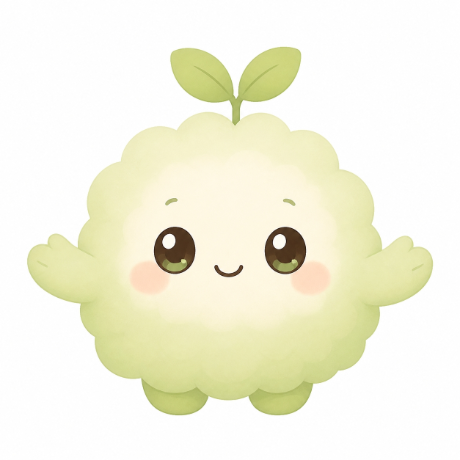
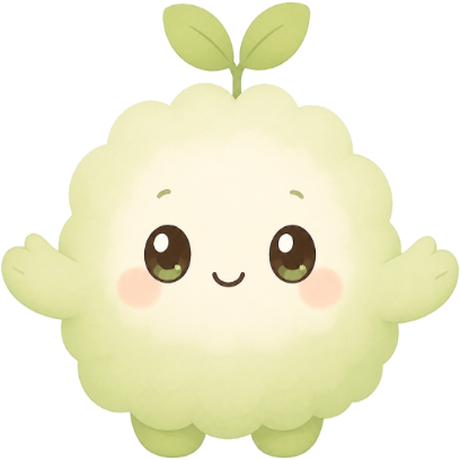
もこの表情切替の不具合を修正（白背景・二重表示・怖い目）
- moko.png の白背景を透過に（切替時に白い四角が出ていた）
- 表情と同じ絵柄の通常顔 moko-base.png を追加し、ヒーローの基本画像に
- 表情画像の位置・大きさを通常顔に揃えて切替時の二重表示を解消
- 表情は上に重ねてクロスフェード（一瞬消える問題を解消）
- 白目つきの目パーツを廃止し、元の絵と同じ目を重ねてハイライトだけ動かす方式に
- 白目の多い「びっくり」顔は使用をやめ、不明な質問は「考え中」に
- 画像URLにバージョンを付けてキャッシュで古い画像が出ないように
- スマホ幅では顔にかぶる吹き出しカードを非表示

diff --git a/index.html b/index.html
@@ -386,19 +386,24 @@ footer { background: var(--ink); color: rgba(255,255,255,.72); padding: 62px 0 3
 .hero-visual.with-moko { display: flex; flex-direction: column; align-items: center; gap: 4px; position: relative; z-index: 1; }
 .moko-stage { position: relative; width: min(80%, 340px); aspect-ratio: 1; }
 .moko { position: absolute; inset: 0; animation: mokoFloat 4.5s ease-in-out infinite; will-change: transform; }
-.moko img.moko-body { width: 100%; height: 100%; object-fit: contain; display: block; filter: drop-shadow(0 16px 26px rgba(60,110,90,.22)); }
+.moko img { position: absolute; inset: 0; width: 100%; height: 100%; object-fit: contain; display: block; filter: drop-shadow(0 16px 26px rgba(60,110,90,.22)); transition: opacity .22s ease; }
+.moko img.moko-face { opacity: 0; pointer-events: none; }
+.moko.show-face img.moko-face { opacity: 1; }
+.moko.show-face img.moko-body { opacity: 0; }
 @keyframes mokoFloat { 0%,100% { transform: translateY(0); } 50% { transform: translateY(-10px); } }
-.moko-eye { position: absolute; width: 9.4%; aspect-ratio: 1; border-radius: 50%;
-  background: radial-gradient(circle at 50% 38%, #fffefa, #efe7d6); box-shadow: inset 0 -1px 2px rgba(90,70,40,.18); overflow: hidden; }
-.moko-eye.l { left: 38.3%; top: 53.6%; transform: translate(-50%, -50%); }
-.moko-eye.r { left: 62%;  top: 53.6%; transform: translate(-50%, -50%); }
-.moko-pupil { position: absolute; left: 50%; top: 50%; width: 56%; aspect-ratio: 1; border-radius: 50%;
-  background: radial-gradient(circle at 50% 45%, #4a3d2b, #2c2418);
-  transform: translate(calc(-50% + var(--px, 0px)), calc(-50% + var(--py, 0px))); transition: transform .09s ease-out; }
-.moko-pupil::after { content: ''; position: absolute; left: 24%; top: 18%; width: 30%; aspect-ratio: 1; border-radius: 50%; background: rgba(255,255,255,.92); }
-.moko-eyelid { position: absolute; left: -4%; top: -4%; width: 108%; height: 108%; border-radius: 50%; background: #ece3cf; transform: scaleY(0); transform-origin: 50% 8%; transition: transform .09s ease; }
+/* 元の絵と同じ目（濃い茶色の楕円＋白ハイライト＋下の黄緑）を重ね、中身だけがそっと動く */
+.moko-eye { position: absolute; width: 10.9%; height: 13.2%; border-radius: 50%; overflow: hidden;
+  background: radial-gradient(ellipse at 50% 45%, #583c23 0%, #553921 55%, #462b11 100%);
+  box-shadow: inset 0 0 0 1.5px #432d11; transform: translate(-50%, -50%); transition: opacity .15s ease; }
+.moko-eye.l { left: 37.3%; top: 55.3%; }
+.moko-eye.r { left: 65.5%; top: 55.3%; }
+.moko-pupil { position: absolute; inset: 0;
+  background: radial-gradient(ellipse 60% 36% at 50% 82%, #a3ad64 0%, #9aa45d 50%, rgba(154,164,93,0) 80%);
+  transform: translate(var(--px, 0px), var(--py, 0px)); transition: transform .12s ease-out; }
+.moko-pupil::before { content: ''; position: absolute; left: 22%; top: 14%; width: 30%; height: 28%; border-radius: 50%; background: #fdf7e3; }
+.moko-pupil::after { content: ''; position: absolute; left: 64%; top: 64%; width: 12%; height: 10%; border-radius: 50%; background: #d9e291; }
+.moko-eyelid { position: absolute; inset: -6%; border-radius: 50%; background: #fbf4e0; transform: scaleY(0); transform-origin: 50% 0; transition: transform .09s ease; }
 .moko.blink .moko-eyelid { transform: scaleY(1); }
-.moko-body { transition: opacity .18s ease; }
 .moko.show-face .moko-eye { opacity: 0; }
 .moko.react { animation: mokoBounce .5s ease; }
 @keyframes mokoBounce { 0%,100%{transform:translateY(0) scale(1);} 30%{transform:translateY(-14px) scale(1.05,.96);} 60%{transform:translateY(0) scale(.97,1.03);} }
@@ -427,7 +432,8 @@ footer { background: var(--ink); color: rgba(255,255,255,.72); padding: 62px 0 3
 .imgslot.standee { width: min(70%, 240px); aspect-ratio: 3/4; margin: 0 auto 26px; }
 .imgslot.section-illust { width: 100%; aspect-ratio: 16/7; margin-top: 30px; }
 
-@media (max-width: 980px) { .moko-stage { width: min(62%, 300px); } }
+@media (max-width: 980px) { .moko-stage { width: min(62%, 300px); } .moko-stage .float-card.fc1 { left: -14%; top: 0; } .moko-stage .float-card.fc2 { right: -14%; bottom: 0; } }
+@media (max-width: 720px) { .moko-stage { width: min(72%, 290px); } .moko-stage .float-card { display: none; } }
 </style>
 <noscript><style>.reveal{opacity:1!important;transform:none!important}.nav-links{position:static!important;transform:none!important}</style></noscript>
 </head>
@@ -474,7 +480,8 @@ footer { background: var(--ink); color: rgba(255,255,255,.72); padding: 62px 0 3
     <div class="hero-visual with-moko reveal">
       <div class="moko-stage" id="mokoStage">
         <div class="moko" id="moko">
-          <img class="moko-body" src="image/moko.png" alt="AIコンシェルジュ もこ">
+          <img class="moko-body" src="image/moko-base.png?v=3" alt="AIコンシェルジュ もこ">
+          <img class="moko-face" src="image/moko-happy.png?v=3" alt="" aria-hidden="true">
           <div class="moko-eye l"><div class="moko-pupil"></div><div class="moko-eyelid"></div></div>
           <div class="moko-eye r"><div class="moko-pupil"></div><div class="moko-eyelid"></div></div>
         </div>
@@ -904,10 +911,10 @@ document.querySelectorAll('.imgslot img').forEach(im => {
     const idle = Date.now()-moved > 2600;
     eyes.forEach((o,i)=>{
       const r=o.el.getBoundingClientRect(); const cx=r.left+r.width/2, cy=r.top+r.height/2;
-      if(idle){ const a=t/900 + i*0.7; const m=r.width*0.15;
+      if(idle){ const a=t/1400 + i*0.7; const m=r.width*0.07;
         o.p.style.setProperty('--px',(Math.cos(a)*m).toFixed(1)+'px');
         o.p.style.setProperty('--py',(Math.sin(a*1.3)*m).toFixed(1)+'px'); }
-      else { let dx=mx-cx, dy=my-cy; const d=Math.hypot(dx,dy)||1; const m=r.width*0.18; const k=Math.min(1,d/130);
+      else { let dx=mx-cx, dy=my-cy; const d=Math.hypot(dx,dy)||1; const m=r.width*0.13; const k=Math.min(1,d/160);
         o.p.style.setProperty('--px',(dx/d*m*k).toFixed(1)+'px');
         o.p.style.setProperty('--py',(dy/d*m*k).toFixed(1)+'px'); }
     });
@@ -917,21 +924,19 @@ document.querySelectorAll('.imgslot img').forEach(im => {
   (function blink(){ moko.classList.add('blink'); setTimeout(()=>moko.classList.remove('blink'),150); setTimeout(blink, 2600+Math.random()*3400); })();
 
   // ---- 表情差分（顔がかわる） ----
-  const body = moko.querySelector('.moko-body');
-  const FACES = { happy:'image/moko-happy.png', think:'image/moko-think.png', surprise:'image/moko-surprise.png', wink:'image/moko-wink.png' };
-  const NEUTRAL = 'image/moko.png';
+  const face = moko.querySelector('.moko-face');
+  const FACES = { happy:'image/moko-happy.png?v=3', think:'image/moko-think.png?v=3', wink:'image/moko-wink.png?v=3' };
   Object.values(FACES).forEach(src => { const i = new Image(); i.src = src; });
   let faceTimer = null;
+  // 通常の絵の上に表情の絵をふわっと重ねる（消える瞬間がないクロスフェード）
   function setFace(name, hold){
     clearTimeout(faceTimer);
-    body.style.opacity = 0;
     if (name && FACES[name]) {
-      setTimeout(() => { body.src = FACES[name]; body.style.opacity = 1; }, 120);
+      face.src = FACES[name];
       moko.classList.add('show-face');
       moko.classList.remove('react'); void moko.offsetWidth; moko.classList.add('react');
       if (hold) faceTimer = setTimeout(() => setFace(null), hold);
     } else {
-      setTimeout(() => { body.src = NEUTRAL; body.style.opacity = 1; }, 120);
       moko.classList.remove('show-face');
     }
   }
@@ -971,7 +976,7 @@ document.querySelectorAll('.imgslot img').forEach(im => {
     return null; }
   form.addEventListener('submit', e=>{ e.preventDefault(); const q=input.value.trim(); if(!q)return;
     const k=match(q);
-    if(k){ say(k); } else { msg.textContent='むずかしい質問は、人がLINEでやさしくお答えするよ！'; setFace('surprise', 2800); quick.innerHTML=''; quick.appendChild(chip('LINEで相談 →',()=>go('https://lin.ee/RNf6mxZ'))); quick.appendChild(chip('ほかの質問',()=>{ msg.textContent='なんでも聞いてね🌱'; renderDefault(); })); }
+    if(k){ say(k); } else { msg.textContent='むずかしい質問は、人がLINEでやさしくお答えするよ！'; setFace('think', 2800); quick.innerHTML=''; quick.appendChild(chip('LINEで相談 →',()=>go('https://lin.ee/RNf6mxZ'))); quick.appendChild(chip('ほかの質問',()=>{ msg.textContent='なんでも聞いてね🌱'; renderDefault(); })); }
     input.value=''; });
   renderDefault();
 })();
